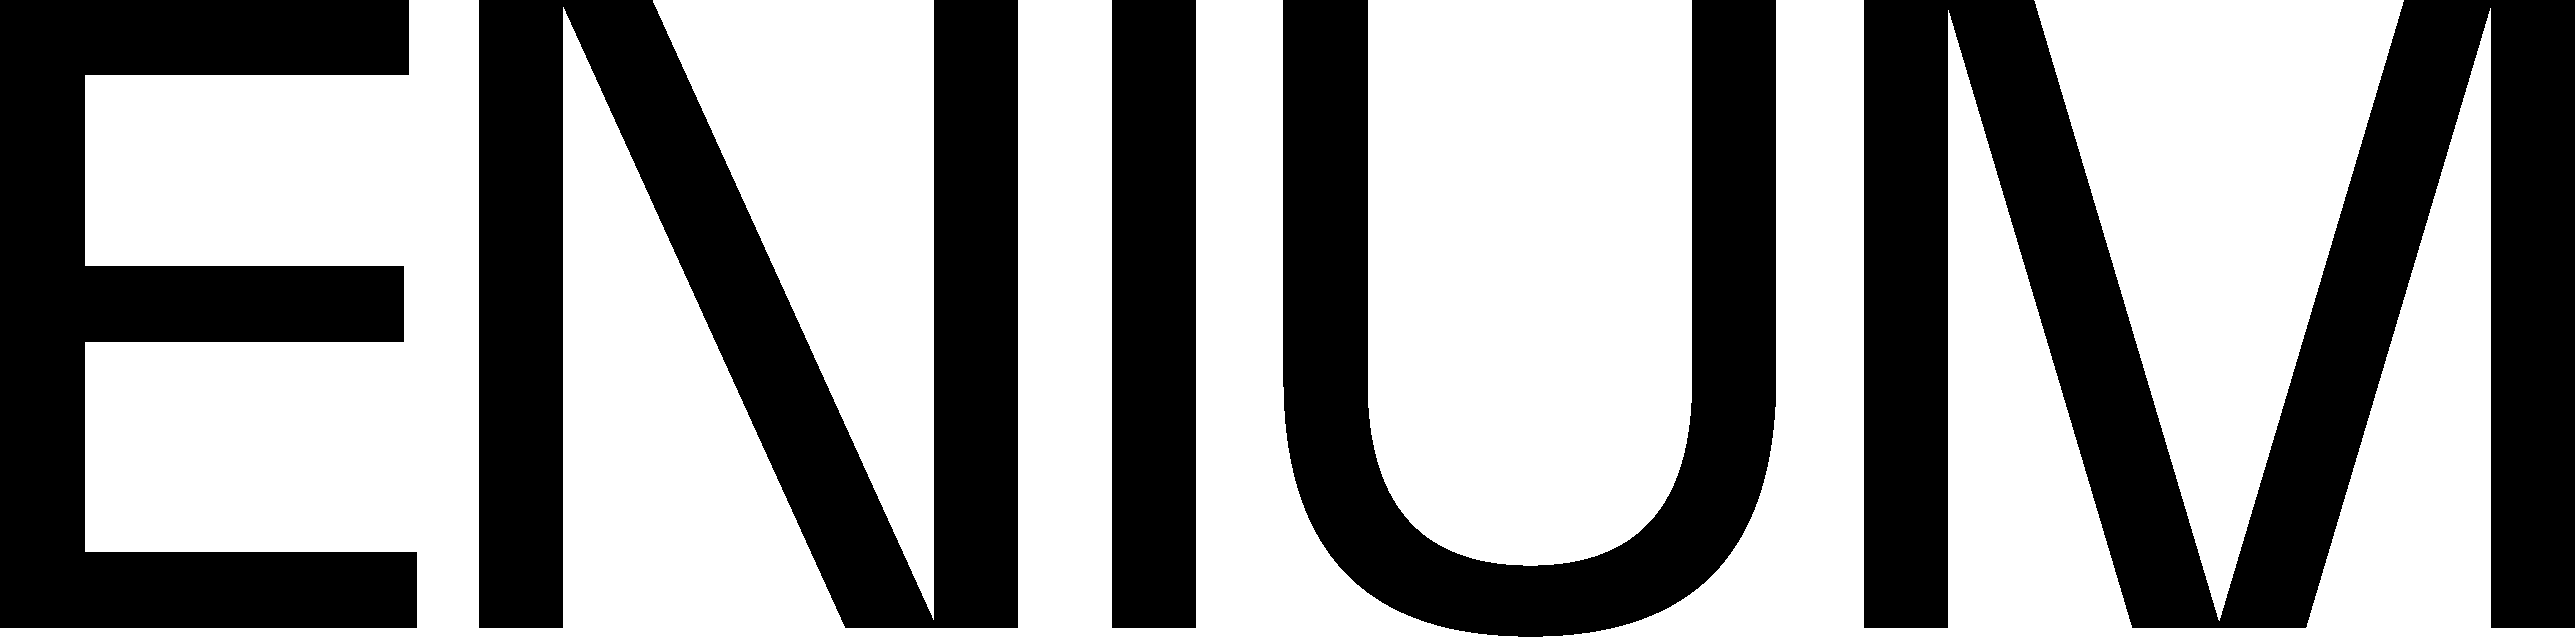
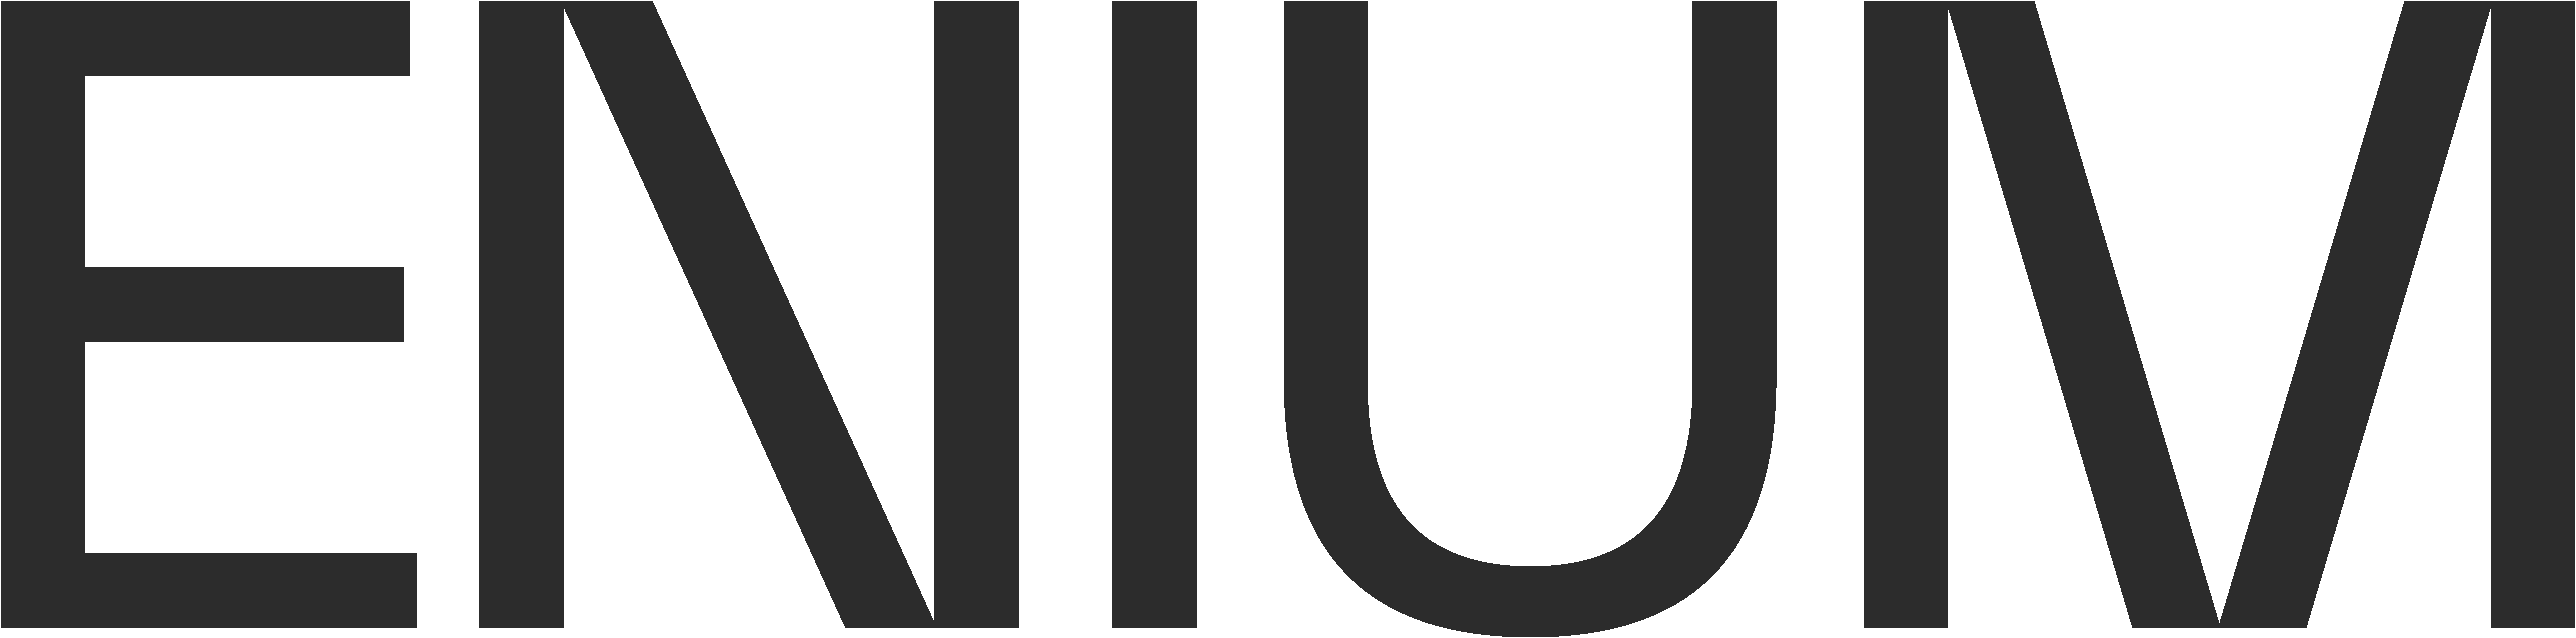
last

diff --git a/src/features/VideoBox/components/Homeowners/Homeowners.scss b/src/features/VideoBox/components/Homeowners/Homeowners.scss
@@ -47,7 +47,7 @@
       }
 
       .homeowner_close {
-        color: $jet-black;
+        color: $cosmic-black;
         font-size: 34px;
         font-family: $everett-regular;
         line-height: 1;
@@ -69,7 +69,7 @@
       .homeowners_title {
         font-family: $everett-regular;
         font-size: 3vh;
-        color: $jet-black;
+        color: $cosmic-black;
       }
     }
 
@@ -82,7 +82,7 @@
         font-family: $ghost;
         font-size: 3vh;
         line-height: 1.2;
-        color: $jet-black;
+        color: $cosmic-black;
       }
     }
   }
